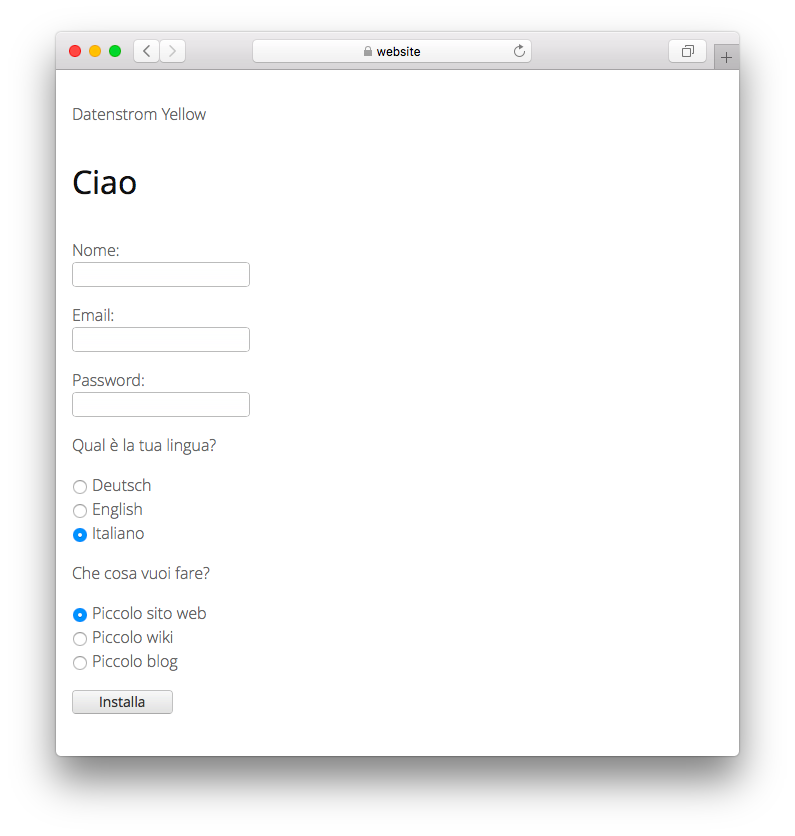
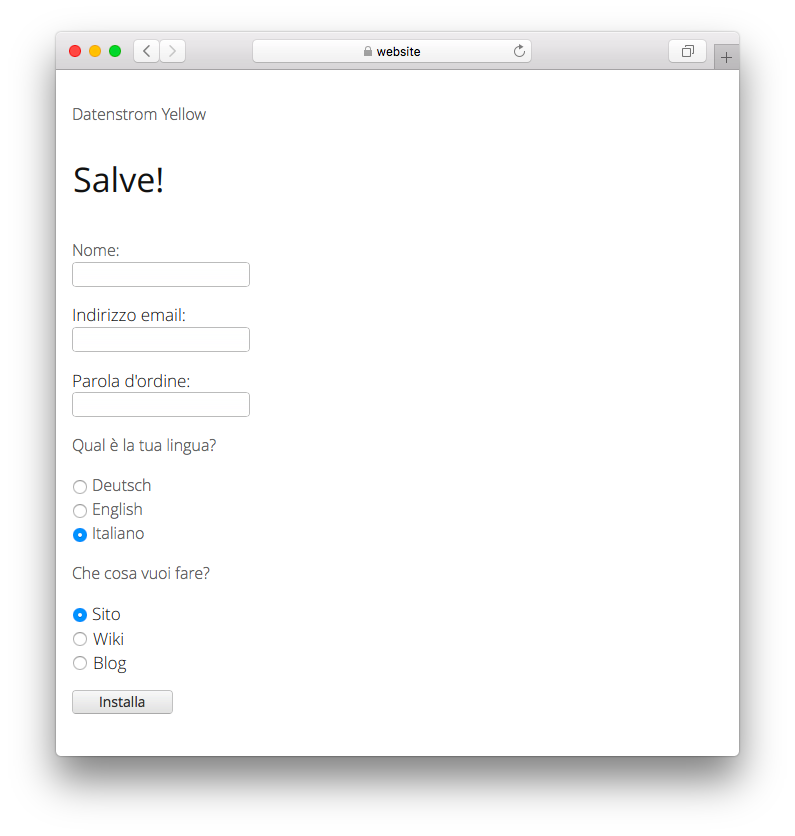
Italian translation updated

diff --git a/translation/italian/italian.php b/translation/italian/italian.php
@@ -2,7 +2,7 @@
 // Italian extension, https://github.com/annaesvensson/yellow-language/tree/main/translation/italian
 
 class YellowItalian {
-    const VERSION = "0.8.32";
+    const VERSION = "0.8.33";
     public $yellow;         // access to API
     
     // Handle initialisation

diff --git a/translation/italian/README.md b/translation/italian/README.md
@@ -1,4 +1,4 @@
-# Italian 0.8.32
+# Italian 0.8.33
 
 Italian/Italiano con lingua 'it'.
 
